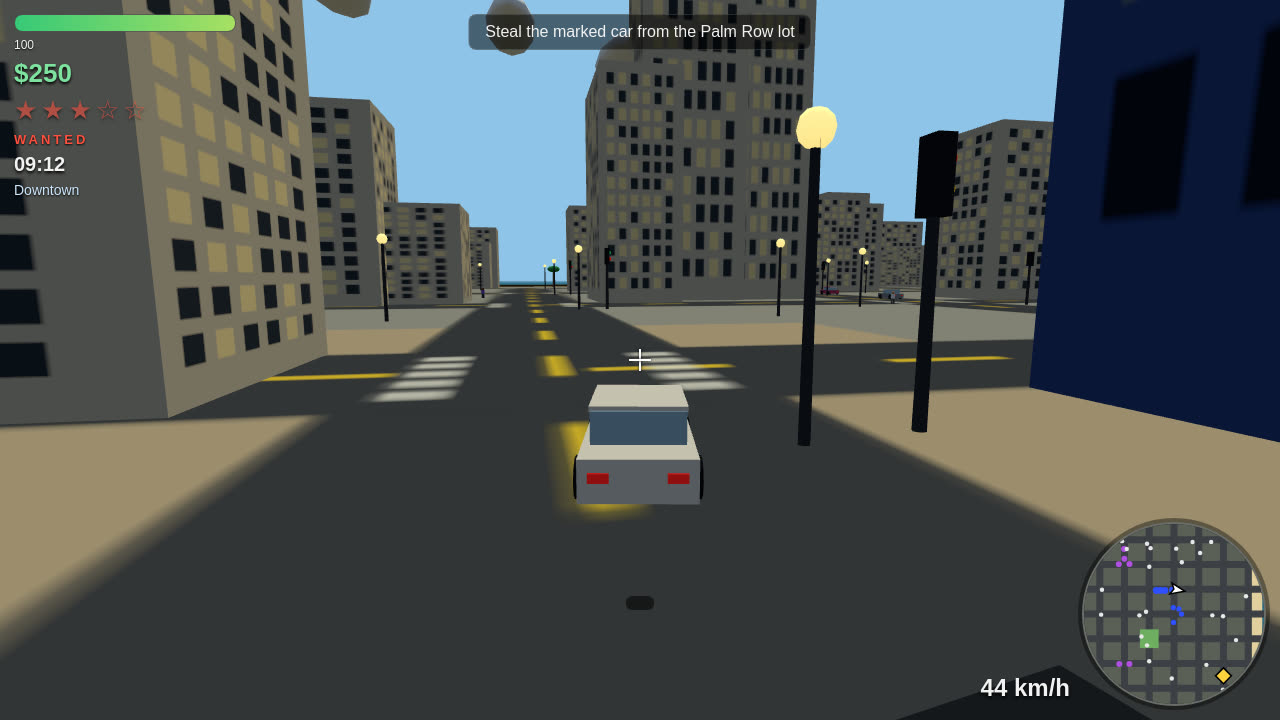
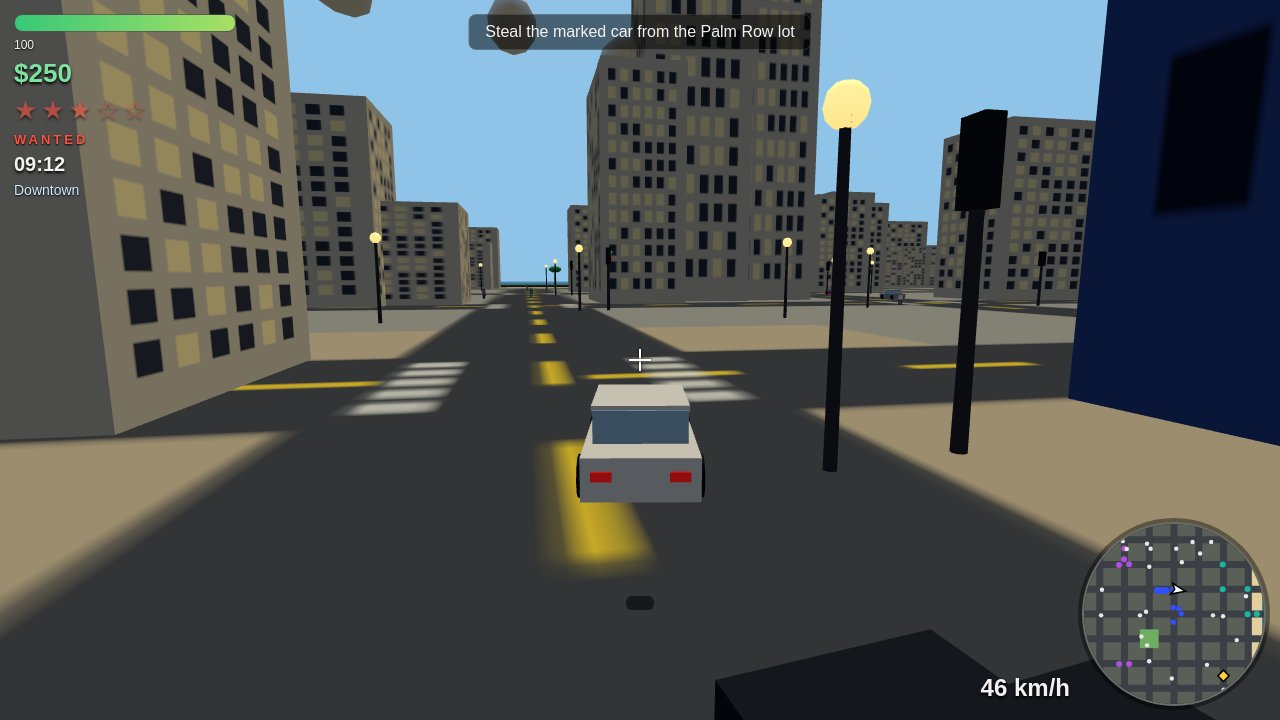
SOLMAR BAY round 3: The Gull Kings gang + mission 7
- Second gang: The Gull Kings (teal jackets, gold bandanas), turf on the
  Boardwalk (196,-16 r55) + Marina pair; 6 patrol, attack in turf, own
  gullAggro flag, hunt from 60 m, respawn after 45 s; teal minimap dots.
- Mission 7 'The Gull Kings' ($8,000): goto Boardwalk (196,0) -> defeat
  Kingfisher (100 HP) + 4 Gull Kings -> lose the heat. Seven jobs total.
- Verified: probe3 0 failures / 0 console errors (gull count, patrol,
  hostility, aggro click, hunt; mission 7 crew 6 -> 11 live, pays $8,000,
  isDone); playtest missions 1/2/4/5/7 + save/load + drive-by + lighthouse,
  0 errors. 4 screenshots retaken and visually read.

diff --git a/game/src/gangs.js b/game/src/gangs.js
@@ -1,17 +1,21 @@
-// Roaming gangs for SOLMAR BAY: The Vipers, the second hostile faction after
-// the SBPD. Purple jackets and bandanas, turf in the Docks (and a pair watching
-// Old Town). They patrol their streets on foot and turn hostile when the player
-// walks into their turf — or when the player shoots one of their own, at which
-// point the whole gang comes looking. Wiped patrols come back after a while,
-// as long as the player is not standing in the turf.
+// Roaming gangs for SOLMAR BAY: The Vipers and The Gull Kings, the two hostile
+// factions after the SBPD. Vipers wear purple jackets and bandanas and hold turf
+// in the Docks (and a pair watching Old Town). Gull Kings wear teal jackets and
+// gold bandanas and hold the Boardwalk (and a pair watching the Marina). They
+// patrol their streets on foot and turn hostile when the player walks into
+// their turf — or when the player shoots one of their own, at which point the
+// whole gang comes looking. Wiped patrols come back after a while, as long as
+// the player is not standing in the turf.
 import { dist2d, makeRng } from './util.js';
 import { streetCoord, GRID } from './city.js';
 
 export const GANG_NAME = 'The Vipers';
 export const GANG_TURF = { x: -140, z: -140, r: 60, name: 'The Docks' };
+export const GULL_NAME = 'The Gull Kings';
+export const GULL_TURF = { x: 196, z: -16, r: 55, name: 'The Boardwalk' };
 
-/** Two waypoints up and down the street the viper stands on, so the patrol
- *  walks the road instead of cutting through building blocks. */
+/** Two waypoints up and down the street the gang member stands on, so the
+ *  patrol walks the road instead of cutting through building blocks. */
 function patrolAlong(x, z) {
   const streets = [];
   for (let i = 0; i <= GRID * 2; i += 1) streets.push(streetCoord(i));
@@ -27,8 +31,11 @@ export class Gangs {
     this.combat = combat;
     this.rng = makeRng(777);
     this.members = [];
+    this.gulls = [];
     this.respawnTimer = 0;
+    this.gullRespawnTimer = 0;
     this.spawnPatrols();
+    this.spawnGullPatrols();
   }
 
   spawnPatrols() {
@@ -39,11 +46,29 @@ export class Gangs {
     oldTown.forEach(([x, z], i) => this.spawnViper(x, z, 'Viper ' + (i + 5), patrolAlong(x, z)));
   }
 
+  spawnGullPatrols() {
+    // Boardwalk crew (4) walks the beach front; a Marina pair (2) watches the
+    // approach from the Marina District. Pier 9 sits just outside the turf
+    // (55 m from its centre), so the Drop pickup is not a war zone.
+    const boardwalk = [[196, 0], [196, -116], [174, 0], [174, -58]];
+    boardwalk.forEach(([x, z], i) => this.spawnGullKing(x, z, 'Gull King ' + (i + 1), patrolAlong(x, z)));
+    const marina = [[116, -116], [116, -58]];
+    marina.forEach(([x, z], i) => this.spawnGullKing(x, z, 'Gull King ' + (i + 5), patrolAlong(x, z)));
+  }
+
   spawnViper(x, z, name, patrol) {
     const e = this.combat.spawnEnemy(x, z, name, 60, {
       faction: 'viper', jacket: 0x7a2e8f, bandana: 0x7a2e8f, patrol,
     });
     this.members.push(e);
+    return e;
+  }
+
+  spawnGullKing(x, z, name, patrol) {
+    const e = this.combat.spawnEnemy(x, z, name, 60, {
+      faction: 'gull', jacket: 0x0e7c86, bandana: 0xe8c832, patrol,
+    });
+    this.gulls.push(e);
     return e;
   }
 
@@ -60,18 +85,36 @@ export class Gangs {
     } else {
       this.respawnTimer = 0;
     }
+    this.gulls = this.gulls.filter((e) => e.state !== 'down');
+    if (this.gulls.length === 0) {
+      this.gullRespawnTimer += dt;
+      if (this.gullRespawnTimer > 45 && dist2d(px, pz, GULL_TURF.x, GULL_TURF.z) > 80) {
+        this.spawnGullPatrols();
+        this.combat.gullAggro = false;
+        this.gullRespawnTimer = 0;
+      }
+    } else {
+      this.gullRespawnTimer = 0;
+    }
   }
 
   /** Fresh patrols after a New Game, a load, or being busted/flatlined:
    *  clearEnemies already removed the old members from the scene. */
   reset() {
     for (const e of this.members) this.combat.removeEnemy(e);
+    for (const e of this.gulls) this.combat.removeEnemy(e);
     this.members = [];
+    this.gulls = [];
     this.respawnTimer = 0;
+    this.gullRespawnTimer = 0;
     this.combat.gangAggro = false;
+    this.combat.gullAggro = false;
     this.spawnPatrols();
+    this.spawnGullPatrols();
   }
 
   get alive() { return this.members.length; }
+  get gullAlive() { return this.gulls.length; }
   inTurf(x, z) { return dist2d(x, z, GANG_TURF.x, GANG_TURF.z) < GANG_TURF.r; }
+  inGullTurf(x, z) { return dist2d(x, z, GULL_TURF.x, GULL_TURF.z) < GULL_TURF.r; }
 }

diff --git a/game/src/combat.js b/game/src/combat.js
@@ -15,6 +15,7 @@ export class Combat {
     this.fireCooldown = 0;
     this.rng = makeRng(4242);
     this.gangAggro = false; // shooting one Viper turns the whole gang hostile
+    this.gullAggro = false; // shooting one Gull King turns the whole gang hostile
     // Muzzle flash: a small additive sprite at the gun.
     const flashMat = new THREE.MeshBasicMaterial({ color: 0xffe9a8, transparent: true, opacity: 0 });
     this.flash = new THREE.Mesh(new THREE.SphereGeometry(0.22, 8, 6), flashMat);
@@ -26,8 +27,9 @@ export class Combat {
   /**
    * Spawn an armed enemy at (x, z) with a name and health.
    * `opts.faction`: 'guard' (bank crew, brown suit) | 'rat' (Harbor Rats) |
-   * 'viper' (The Vipers gang, purple jacket + bandana). `opts.patrol` is a
-   * list of [x, z] waypoints the enemy walks between while guarding.
+   * 'viper' (The Vipers gang, purple jacket + bandana) | 'gull' (The Gull
+   * Kings, teal jacket + gold bandana). `opts.patrol` is a list of [x, z]
+   * waypoints the enemy walks between while guarding.
    */
   spawnEnemy(x, z, name, health = 60, opts = {}) {
     const g = new THREE.Group();
@@ -110,6 +112,7 @@ export class Combat {
       const e = best.target.ref;
       e.health -= 34;
       if (e.faction === 'viper') this.gangAggro = true; // the gang remembers
+      if (e.faction === 'gull') this.gullAggro = true; // the gang remembers
       if (e.health <= 0) {
         e.state = 'down';
         e.mesh.rotation.x = -Math.PI / 2;
@@ -141,6 +144,7 @@ export class Combat {
     if (best.kind === 'enemy') {
       best.ref.health -= 25;
       if (best.ref.faction === 'viper') this.gangAggro = true; // the gang remembers
+      if (best.ref.faction === 'gull') this.gullAggro = true; // the gang remembers
       if (best.ref.health <= 0) {
         best.ref.state = 'down';
         best.ref.mesh.rotation.x = -Math.PI / 2;
@@ -154,19 +158,23 @@ export class Combat {
   }
 
   /** Enemy AI: guards hold position (or walk a patrol), attackers chase and
-   *  shoot at the player. A Viper whose gang is aggro hunts from twice as far. */
+   *  shoot at the player. A Viper or Gull King whose gang is aggro hunts from
+   *  twice as far. */
   updateEnemies(dt, player, colliders) {
     const px = player.inCar ? player.inCar.x : player.x;
     const pz = player.inCar ? player.inCar.z : player.z;
-    // The gang cools off once every Viper is down.
+    // The gang cools off once every member of it is down.
     if (this.gangAggro && !this.enemies.some((e) => e.faction === 'viper' && e.state !== 'down')) {
       this.gangAggro = false;
+    }
+    if (this.gullAggro && !this.enemies.some((e) => e.faction === 'gull' && e.state !== 'down')) {
+      this.gullAggro = false;
     }
     for (const e of this.enemies) {
       if (e.state === 'down') continue;
       const d = dist2d(e.x, e.z, px, pz);
-      // A Viper whose gang is aggro hunts from twice as far away.
-      const aggroRange = e.faction === 'viper' && this.gangAggro ? 60 : 26;
+      // A gang member whose gang is aggro hunts from twice as far away.
+      const aggroRange = ((e.faction === 'viper' && this.gangAggro) || (e.faction === 'gull' && this.gullAggro)) ? 60 : 26;
       if (d < aggroRange) {
         e.state = 'attack';
         const target = Math.atan2(px - e.x, pz - e.z);

diff --git a/game/src/main.js b/game/src/main.js
@@ -1,6 +1,6 @@
 // SOLMAR BAY — main game. Boots three.js, wires every system together, runs the loop.
 // An original open-world crime game: on foot and by car, traffic, traffic lights,
-// pedestrians, police, a roaming gang, six story missions, combat, HUD + live
+// pedestrians, police, two roaming gangs, seven story missions, combat, HUD + live
 // minimap, save/load, synth sound.
 import * as THREE from 'three';
 import { buildCity, collideCircle, DISTRICTS, BEACH_X, SEA_X, HALF } from './city.js';
@@ -494,6 +494,7 @@ export class Game {
 
   zoneName(x, z) {
     if (this.gangs && this.gangs.inTurf(x, z)) return 'Viper Turf — The Docks';
+    if (this.gangs && this.gangs.inGullTurf(x, z)) return 'Gull King Turf — The Boardwalk';
     if (x > BEACH_X) return 'Solmar Beach';
     if (x > SEA_X - 40) return 'The Boardwalk';
     let best = null; let bestD = Infinity;
@@ -526,6 +527,8 @@ export class Game {
           this.spawnHarborRats();
         } else if (id === 'serpents-head' && this.enemiesSpawnedFor !== 'serpents-head') {
           this.spawnSerpentCrew();
+        } else if (id === 'gull-kings' && this.enemiesSpawnedFor !== 'gull-kings') {
+          this.spawnGullCrew();
         }
       }
     } else if (ev.type === 'mission-complete') {
@@ -593,6 +596,25 @@ export class Game {
     });
     this.police.setWanted(3);
     this.hud.showMessage('Serpent and his Vipers are armed — and the SBPD is coming. End it.', 5);
+    this.sound.wantedUp();
+  }
+
+  spawnGullCrew() {
+    this.enemiesSpawnedFor = 'gull-kings';
+    // Kingfisher holds the Boardwalk by the old arcade; his crew fans out
+    // along the beach front. The gold bandana marks the boss — the teal
+    // jackets mark the rest of the gang.
+    this.combat.spawnEnemy(190, -8, 'Kingfisher', 100, {
+      faction: 'gull', jacket: 0x0a3a3a, bandana: 0xe8c832,
+    });
+    const spots = [[196, -16], [174, 0], [196, 16], [214, 0]];
+    spots.forEach(([x, z], i) => {
+      this.combat.spawnEnemy(x, z, 'Gull King ' + (i + 1), 60, {
+        faction: 'gull', jacket: 0x0e7c86, bandana: 0xe8c832,
+      });
+    });
+    this.police.setWanted(3);
+    this.hud.showMessage('Kingfisher and his Gull Kings are armed — and the SBPD is coming. Take the Boardwalk back.', 5);
     this.sound.wantedUp();
   }
 
@@ -687,7 +709,9 @@ window.__solmar = {
     policeCars: game.police.cars.length,
     enemies: game.combat.enemies.length,
     vipers: game.gangs ? game.gangs.alive : 0,
+    gulls: game.gangs ? game.gangs.gullAlive : 0,
     gangAggro: game.combat.gangAggro,
+    gullAggro: game.combat.gullAggro,
     lights: game.trafficLights ? game.trafficLights.summary() : null,
   }),
 };

diff --git a/game/src/missions.js b/game/src/missions.js
@@ -1,6 +1,6 @@
 // Missions and story for SOLMAR BAY.
 // Rook Marlowe, a wheelman who swore he was out, comes home to Solmar Bay because his
-// sister Lena owes fixer Vera Kross $40,000. Six jobs to pay it off. All original.
+// sister Lena owes fixer Vera Kross $40,000. Seven jobs to pay it off. All original.
 import * as THREE from 'three';
 import { money } from './util.js';
 
@@ -66,6 +66,17 @@ export const MISSIONS = [
     steps: [
       { id: 'docks', text: 'Go to the Docks — Viper turf (watch the purple jackets)', type: 'goto', x: -116, z: -140, radius: 12 },
       { id: 'serpent', text: 'Take down Serpent and his Vipers (5)', type: 'defeat', count: 5 },
+      { id: 'clean', text: 'Lose the heat', type: 'lose-wanted' },
+    ],
+  },
+  {
+    id: 'gull-kings',
+    title: '7 — The Gull Kings',
+    intro: 'Vera: "The Vipers are done, but the Gull Kings moved onto the Boardwalk while we were looking the other way. Their boss Kingfisher runs the beach trade out of the old arcade. Take the Boardwalk back — drop Kingfisher and his crew, then lose the heat. Eight grand, and the Bay is ours."',
+    reward: 8000,
+    steps: [
+      { id: 'boardwalk', text: 'Go to the Boardwalk — Gull King turf (watch the teal jackets)', type: 'goto', x: 196, z: 0, radius: 12 },
+      { id: 'kingfisher', text: 'Take down Kingfisher and his Gull Kings (5)', type: 'defeat', count: 5 },
       { id: 'clean', text: 'Lose the heat', type: 'lose-wanted' },
     ],
   },
@@ -239,4 +250,4 @@ export class MissionManager {
 }
 
 /** Short story text for the start screen. */
-export const STORY_BLURB = 'Rook Marlowe swore he was out. Then his sister Lena borrowed $40,000 from Vera Kross — the fixer who owns Solmar Bay after dark. Six jobs. One week. Pay it off, or the Bay keeps them both.';
+export const STORY_BLURB = 'Rook Marlowe swore he was out. Then his sister Lena borrowed $40,000 from Vera Kross — the fixer who owns Solmar Bay after dark. Seven jobs. One week. Pay it off, or the Bay keeps them both.';

diff --git a/game/src/hud.js b/game/src/hud.js
@@ -120,10 +120,11 @@ export class Hud {
       ctx.lineWidth = 1.5;
       ctx.stroke();
     }
-    // Enemies: red dots for guards and Rats, purple dots for Vipers.
+    // Enemies: red dots for guards and Rats, purple dots for Vipers, teal
+    // dots for Gull Kings.
     for (const e of enemies) {
       if (e.state === 'down') continue;
-      ctx.fillStyle = e.faction === 'viper' ? '#b04fe0' : '#ff4040';
+      ctx.fillStyle = e.faction === 'viper' ? '#b04fe0' : e.faction === 'gull' ? '#14b8a6' : '#ff4040';
       ctx.beginPath(); ctx.arc(world(e.x), world(e.z), 3, 0, Math.PI * 2); ctx.fill();
     }
     // Traffic cars (white dots).

diff --git a/game/index.html b/game/index.html
@@ -105,7 +105,7 @@
       <b>P / Esc</b><span>Pause &mdash; M mute</span>
     </div>
     <ul id="mission-list"></ul>
-    <p>Steal cars, lose the SBPD, and finish all six jobs. Your progress saves automatically.</p>
+    <p>Steal cars, lose the SBPD, and finish all seven jobs. Your progress saves automatically.</p>
     <div class="btn-row">
       <button id="btn-new">▶ New Game</button>
       <button id="btn-continue" class="secondary">Continue</button>

diff --git a/README.md b/README.md
@@ -8,7 +8,7 @@ Games or any other commercial game.
 ## The story
 
 Rook Marlowe swore he was out. Then his sister Lena borrowed $40,000 from Vera Kross —
-the fixer who owns Solmar Bay after dark. Six jobs. One week. Pay it off, or the Bay
+the fixer who owns Solmar Bay after dark. Seven jobs. One week. Pay it off, or the Bay
 keeps them both.
 
 ## Play
@@ -47,16 +47,19 @@ No build step, no network requests: every script is a file under `game/`
 - **The Vipers** — a roaming gang in purple jackets and bandanas holds turf in the
   Docks (and watches Old Town). Walk into their turf and they come for you; shoot
   one and the whole gang turns hostile.
+- **The Gull Kings** — a second roaming gang in teal jackets and gold bandanas holds
+  the Boardwalk (and watches the Marina). Same rules: their turf is theirs, and
+  shooting one turns the whole crew hostile.
 - **Wanted level + police** — 1–5 stars. Stealing cars, hitting pedestrians and
   assault raise heat. SBPD interceptors chase and ram; foot cops chase and arrest.
   Break line of sight and stay hidden to cool off — hiding on foot cools heat
   faster than hiding in a car.
-- **Six story missions** — Wheels Up, The Drop, Heat Wave, The Big Score,
-  Harbor Lights, The Serpent's Head — with map markers, dialogue, objectives,
+- **Seven story missions** — Wheels Up, The Drop, Heat Wave, The Big Score,
+  Harbor Lights, The Serpent's Head, The Gull Kings — with map markers, dialogue, objectives,
   pass/fail and cash rewards.
 - **Combat** — hitscan pistol with tracer and muzzle flash (including drive-by
-  shooting from a car), melee punches, armed bank guards, Harbor Rats and Vipers
-  who shoot back, health and slow regen, cash pickups.
+  shooting from a car), melee punches, armed bank guards, Harbor Rats, Vipers and
+  Gull Kings who shoot back, health and slow regen, cash pickups.
 - **HUD + live minimap** — health, money, wanted stars, clock, district name,
   mission objective, and a minimap showing roads, the player arrow, traffic,
   police and the mission marker.
@@ -80,7 +83,7 @@ Each is a real render of the live game (see `game/src/shots.js`).
 - `game/src/` — the game's own source, one job per file: `main.js` (bootstrap +
   loop), `city.js`, `vehicles.js`, `peds.js`, `player.js`, `police.js`,
   `combat.js`, `missions.js`, `hud.js`, `audio.js`, `shots.js`, `util.js`,
-  `traffic.js` (traffic lights), `gangs.js` (The Vipers).
+  `traffic.js` (traffic lights), `gangs.js` (The Vipers + The Gull Kings).
 - `game/vendor/three.module.min.js` — vendored three.js 0.170.0.
 - `screenshots/` — 4 real renders of the game.
 

diff --git a/PROGRESS.md b/PROGRESS.md
@@ -122,3 +122,9 @@
   stale title-orbit camera 64 m from the player) — no game bugs.
 - dev-tools/ (drive.mjs, playtest.mjs, playtest2.mjs, probe*.mjs) now lives
   in the repo: /tmp is wiped on every VM replacement.
+
+## Round 3 — The Gull Kings, mission 7 (2026-11-18)
+- Second gang (game/src/gangs.js): The Gull Kings, teal jackets + gold bandanas, turf on the Boardwalk (centre 196,-16, r 55) + a Marina pair. 6 members patrol their streets; they attack inside 26 m, and shooting one turns the whole gang hostile (own `gullAggro` flag in combat.js, hunt from 60 m). Wiped patrols respawn after 45 s if the player is >80 m from the turf. Minimap shows Gull Kings as teal dots; zone reads "Gull King Turf — The Boardwalk". Pier 9 sits just outside the turf (55 m from its centre) so the Drop pickup stays calm.
+- Mission 7 "The Gull Kings" ($8,000): goto the Boardwalk (196,0, on the z=0 street) → defeat Kingfisher (100 HP, gold bandana) + 4 Gull Kings → lose the heat. Seven jobs total; title screen, story blurb and README all say seven now (caught a stale "finish all six jobs" line in game/index.html and fixed it, then re-took 4-start).
+- Verified (dev-tools/probe3.mjs, 0 failures, 0 console errors): gull count 6, all faction gull; patrols move; gang attacks in turf and shoots; real click sets gullAggro and the gang hunts within 60 m; mission 7 crew spawns (live gulls 6 → 11, Kingfisher present), pays $8,000 (probe 6,250 → 14,250; playtest 8,550 → 16,550), isDone true. Regression (dev-tools/playtest.mjs): missions 1/2/4/5 + save/load ($4,550 round-trip) + drive-by + lighthouse all pass, 0 errors. Screenshots retaken (title lists 7 missions; teal dots on minimap); dossier rebuilds exit 0.
+- Probe notes: the first probe3 run's 7 gull failures were test artifacts, not game bugs — section 4's mission-6 probe downs ALL enemies (including the gull patrol), and gangs.update prunes them, so gull checks run after mission 6 saw an empty patrol. Moved the gull gang checks to right after the Viper checks (fresh New Game) and added gangs.reset() before the mission-7 setup so the live patrol count is clean (6 → 11). Also fixed a check premise: mission 1 starts at spawn during the traffic test, so the "mission 7 didn't start" check now expects wheels-up still active.
